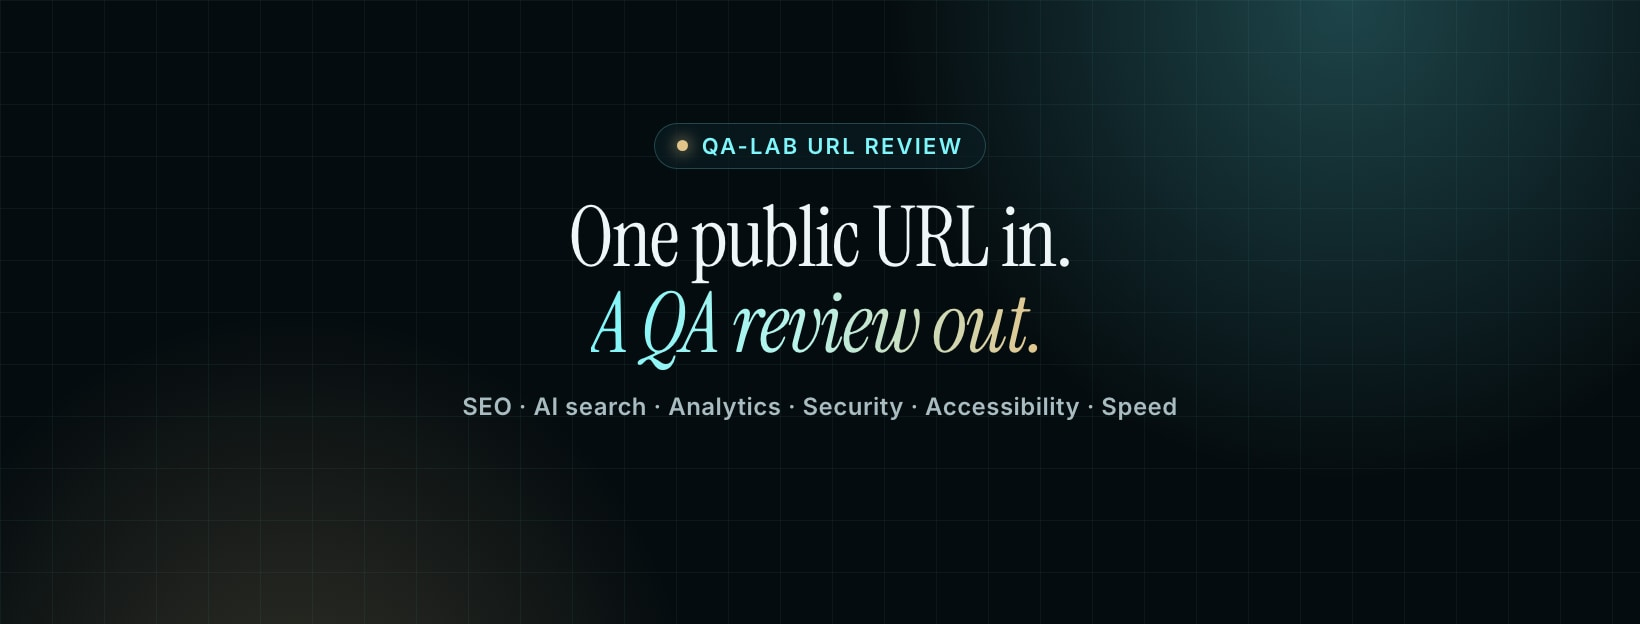
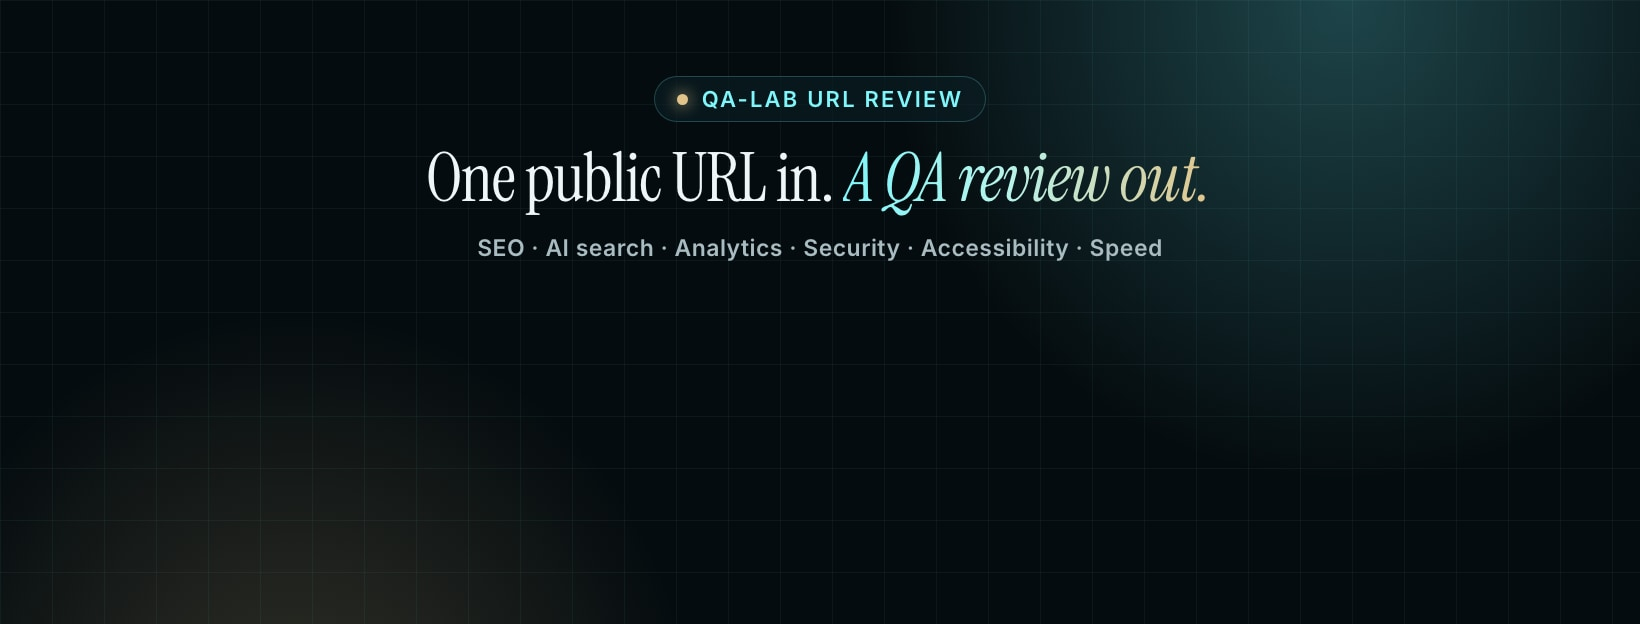
Facebook cover keeps its text above the profile picture; record the Page ID (#379)

Changed region(s): [[0.2488, 0.1218, 0.7463, 0.609], [0.2799, 0.6394, 0.7152, 0.6699]]

diff --git a/scripts/facebook-studio/frame.html b/scripts/facebook-studio/frame.html
@@ -12,13 +12,13 @@
   #c { position: relative; overflow: hidden; background: var(--ink); width: 1640px; height: 624px; }
   .glow { position: absolute; inset: 0; background: radial-gradient(40% 110% at 82% 0%, rgba(77, 179, 187, .34), transparent 70%), radial-gradient(35% 100% at 18% 120%, rgba(226, 196, 138, .2), transparent 70%); }
   .grid { position: absolute; inset: 0; background-image: linear-gradient(rgba(126, 246, 251, .05) 1px, transparent 1px), linear-gradient(90deg, rgba(126, 246, 251, .05) 1px, transparent 1px); background-size: 52px 52px; }
-  /* Phones show only the middle 1109x624 of the cover, and the profile picture overlaps the bottom edge on desktop. */
-  .body { position: absolute; left: 290px; right: 290px; top: 40px; bottom: 120px; display: flex; flex-direction: column; align-items: center; justify-content: center; text-align: center; }
+  /* Phones show only the middle 1109x624 of the cover, and the profile picture covers the bottom half of the middle. */
+  .body { position: absolute; left: 290px; right: 290px; top: 44px; height: 250px; display: flex; flex-direction: column; align-items: center; justify-content: center; text-align: center; }
   .chip { display: inline-flex; align-items: center; gap: 14px; border: 1.5px solid var(--line); background: rgba(10, 30, 36, .6); border-radius: 999px; padding: 9px 22px; font-size: 22px; font-weight: 600; letter-spacing: .1em; text-transform: uppercase; color: var(--cyan-hi); }
   .chip i { width: 11px; height: 11px; border-radius: 50%; background: var(--gold); box-shadow: 0 0 16px var(--gold); }
-  h1 { margin: 26px 0 0; font-family: "Instrument Serif", Georgia, serif; font-weight: 400; letter-spacing: -0.02em; font-size: 84px; line-height: 1.02; }
+  h1 { margin: 22px 0 0; font-family: "Instrument Serif", Georgia, serif; font-weight: 400; letter-spacing: -0.02em; font-size: 68px; line-height: 1; white-space: nowrap; }
   em { font-style: italic; background: linear-gradient(92deg, var(--cyan-hi) 0%, #b8f3ea 45%, var(--gold) 100%); -webkit-background-clip: text; background-clip: text; color: transparent; padding-right: .06em; }
-  p { margin: 26px 0 0; font-size: 24px; font-weight: 600; color: var(--muted); letter-spacing: .02em; }
+  p { margin: 22px 0 0; font-size: 23px; font-weight: 600; color: var(--muted); letter-spacing: .02em; }
 </style>
 </head>
 <body>
@@ -26,7 +26,7 @@
   <div class="glow"></div><div class="grid"></div>
   <div class="body">
     <span class="chip"><i></i>QA-lab URL Review</span>
-    <h1>One public URL in.<br><em>A QA review out.</em></h1>
+    <h1>One public URL in. <em>A QA review out.</em></h1>
     <p>SEO · AI search · Analytics · Security · Accessibility · Speed</p>
   </div>
 </div>
